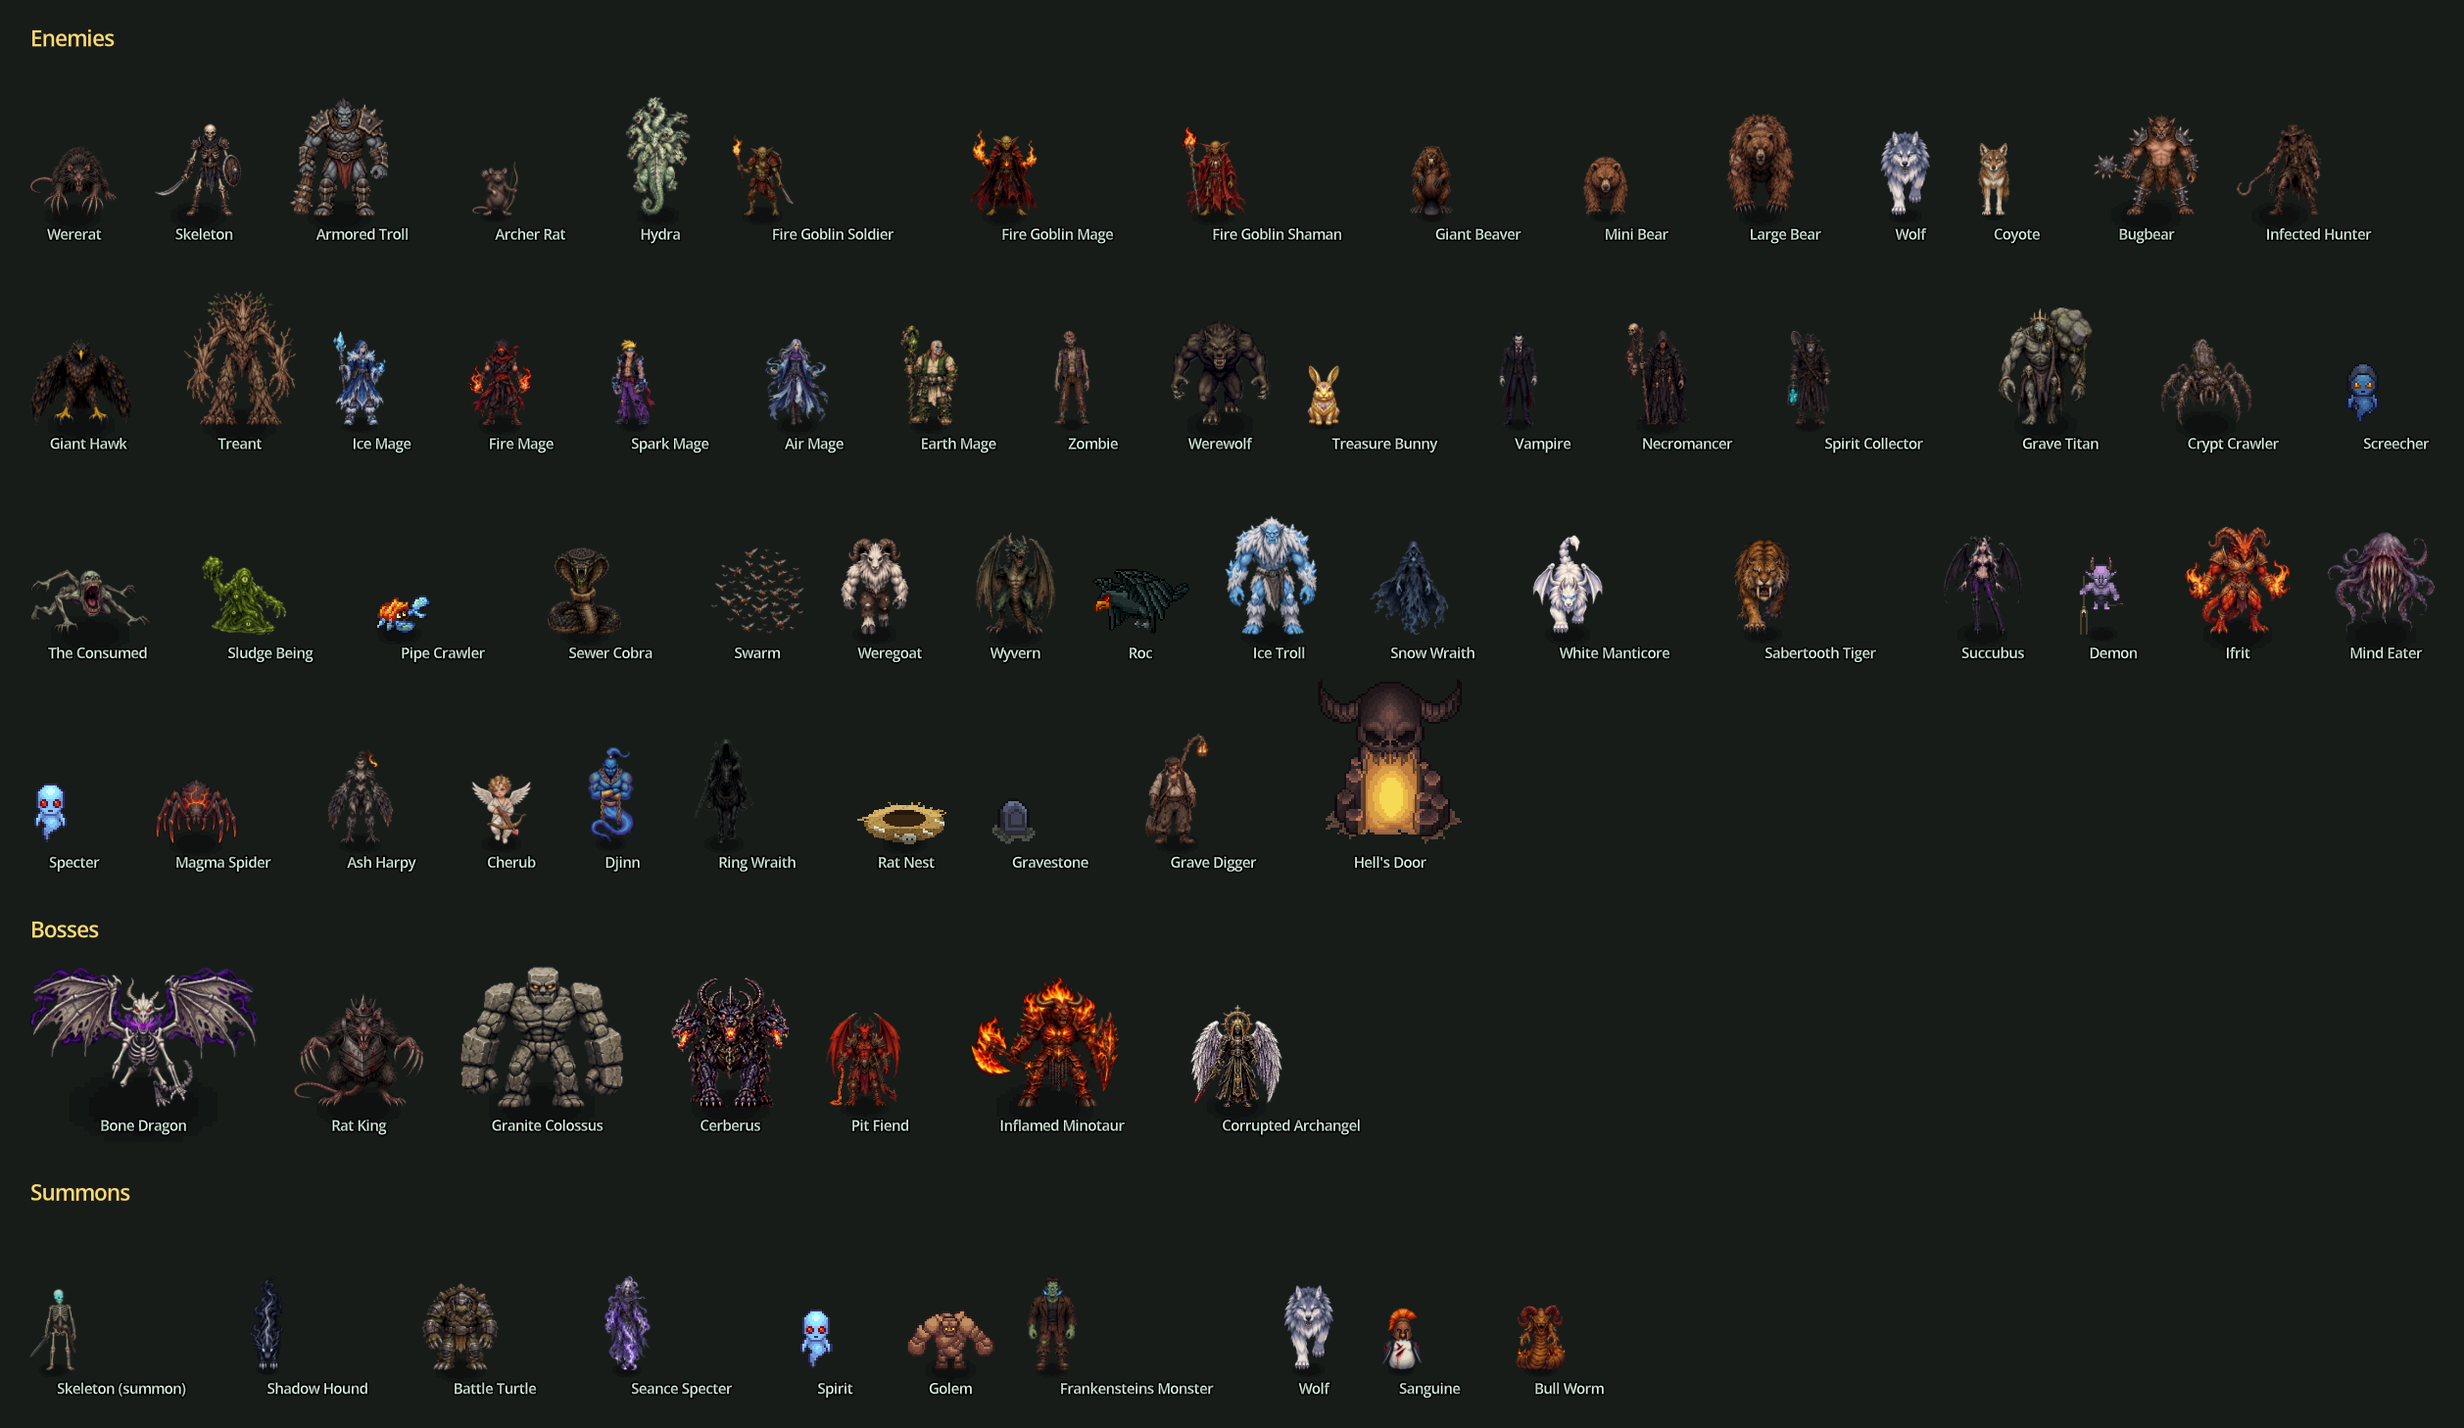
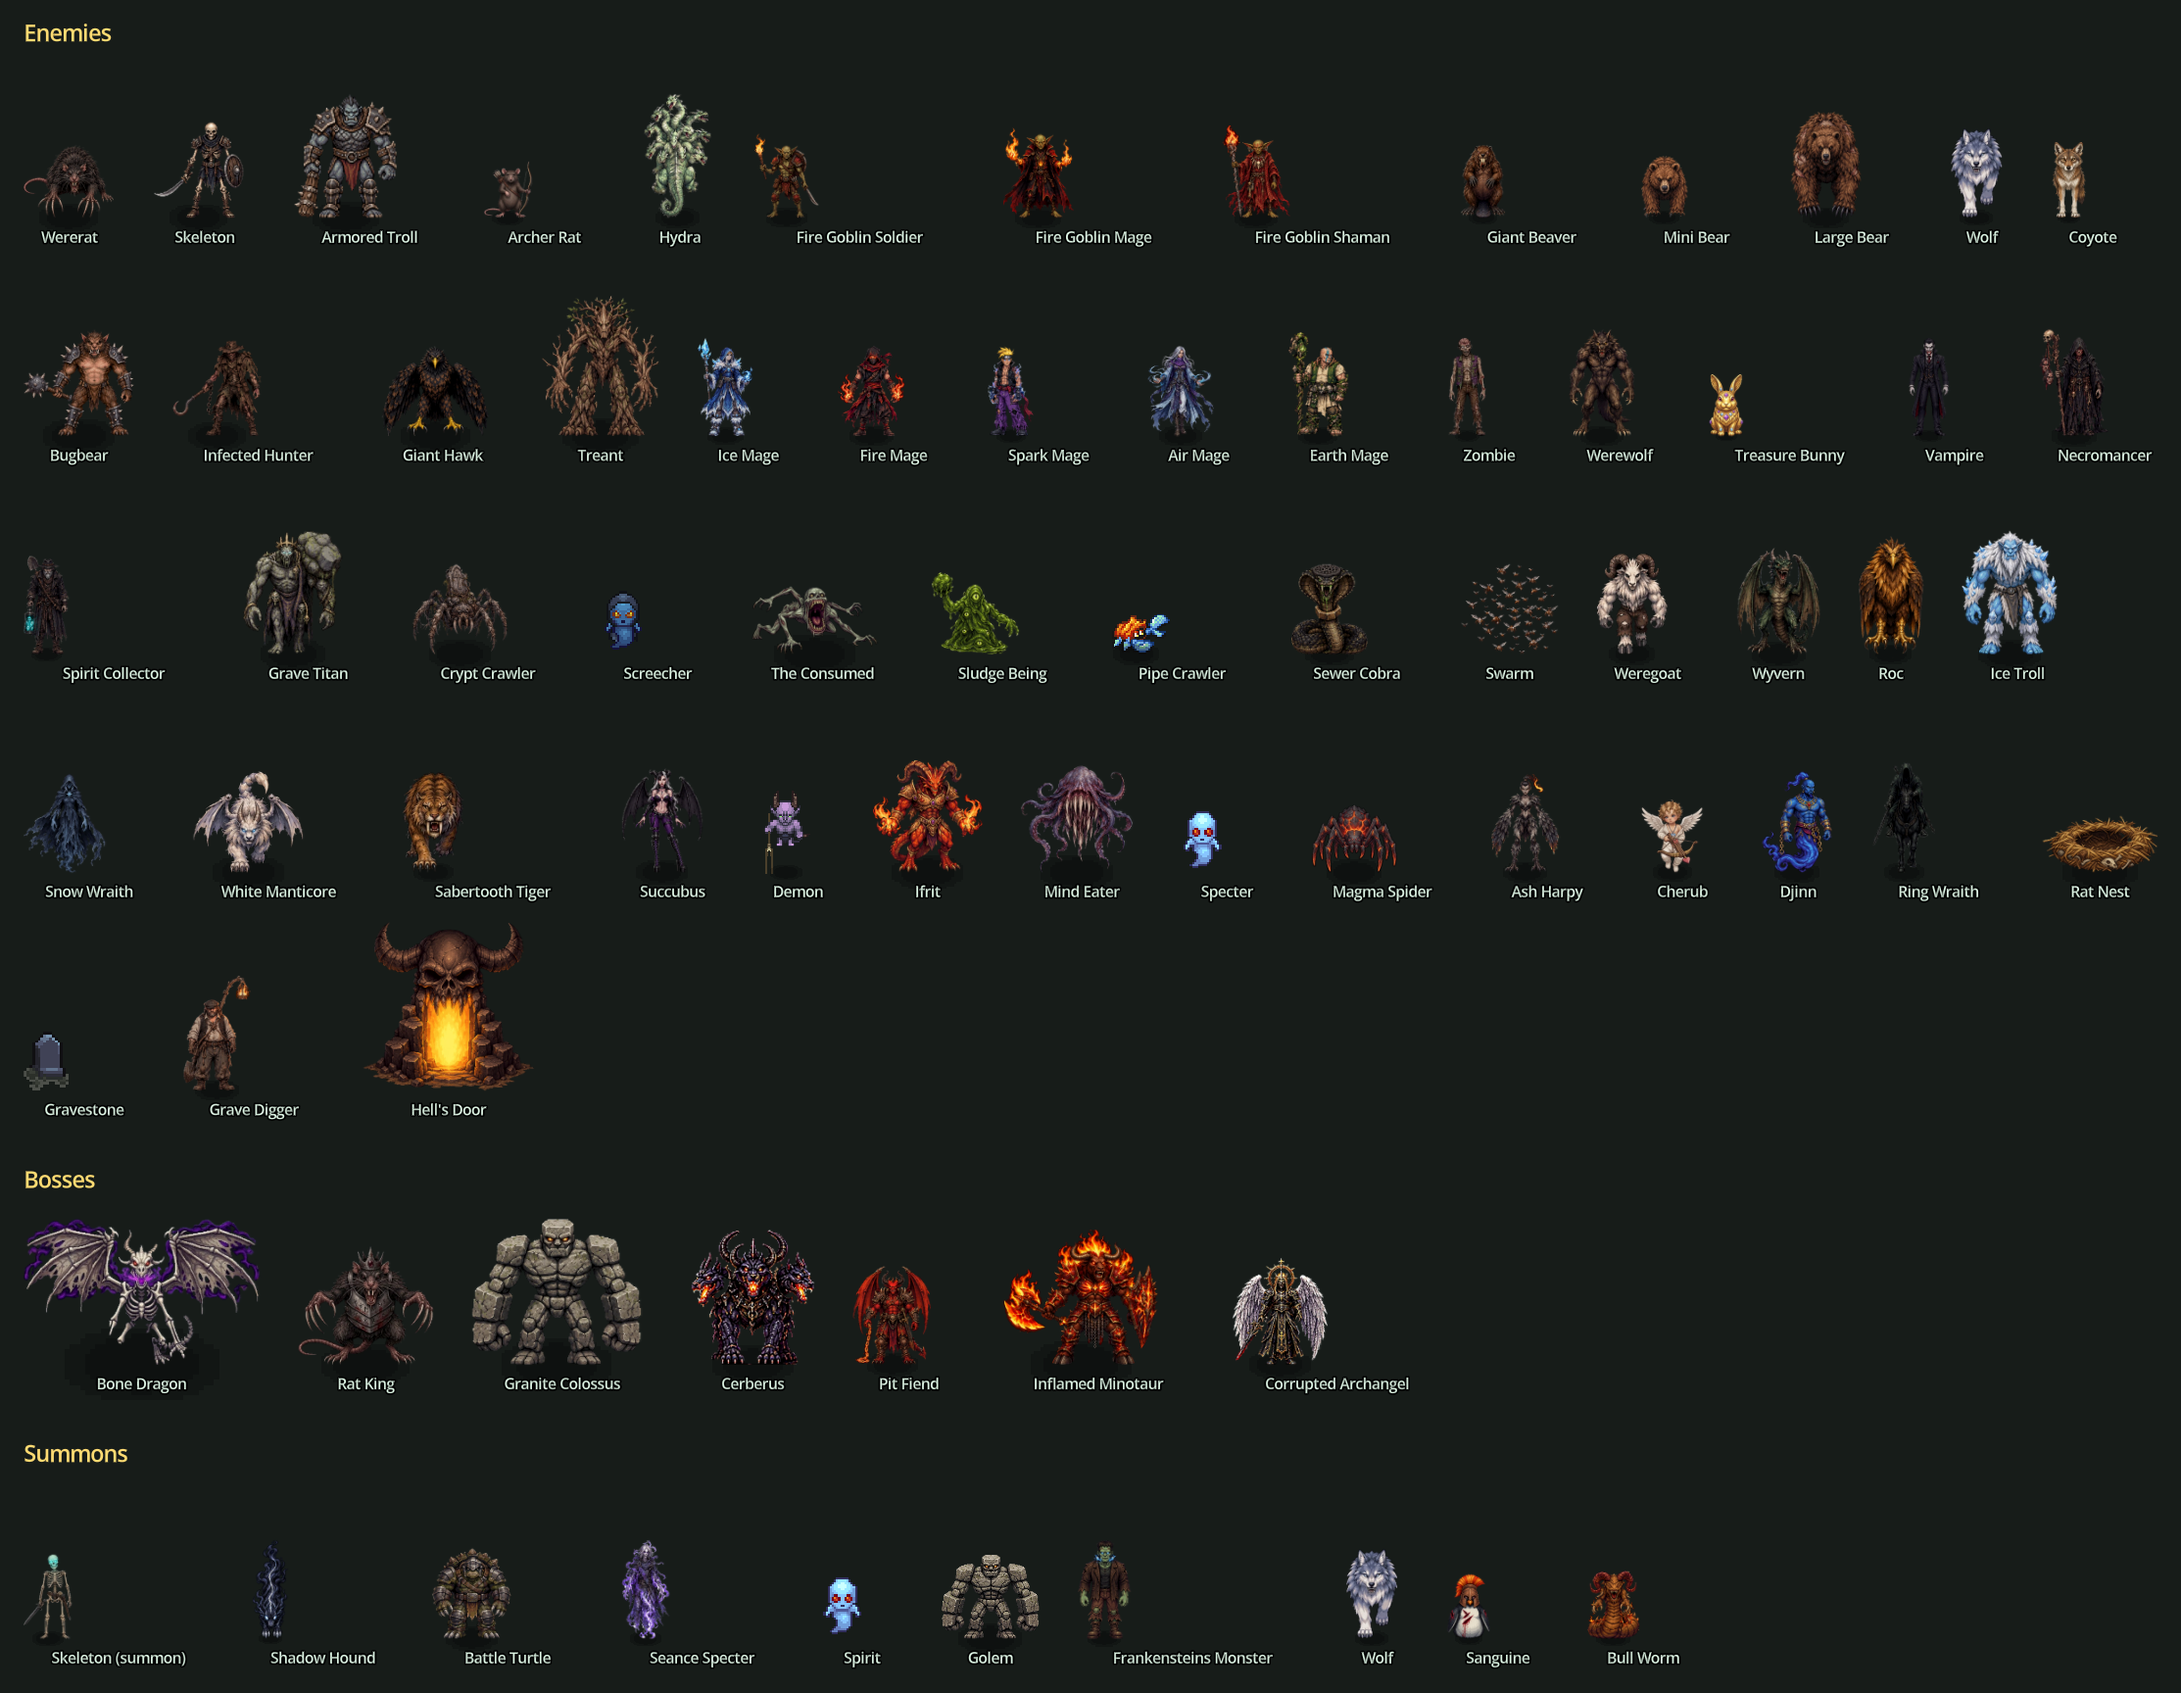
The summoned Golem wears the Granite Colossus board in miniature
A style pass over every monster and NPC: the designer's boards already
read as one style, so they are left as they are. The summoned Golem was
the one pack figure with a drawn match - it was the Colossus's smaller
twin on the golem pack - so it is now cut from the Colossus board and
mattes at 1.5 tiles (a board entry can borrow another's mattes).

Claude-Session: https://claude.ai/code/session_012Y7A5C94YdKvjr5EFVon5m

diff --git a/tools/cut_pose_boards.py b/tools/cut_pose_boards.py
@@ -1181,6 +1181,12 @@ BOARDS = {
     },
 }
 
+# The Golem summon (Summon Golem): the Granite Colossus in miniature, cut from
+# the same board and its mattes at an ally's height (2026-10-28, so it matches
+# the designer's other art; it wore the golem pack's chibi Golem1 until then).
+BOARDS["summon_golem"] = {**BOARDS["granite_colossus"], "tiles": 1.5,
+                          "matte_name": "granite_colossus"}
+
 # Texels per tile the boards are cut at (designer, 2026-10-24: err on the
 # side of under-pixelating what we make): twice the world's 32, the heroes'
 # own fineness — one texel a screen pixel at the default zoom. Each board
@@ -1626,7 +1632,7 @@ def build(name: str, cfg: dict) -> None:
                 # "Walk:left" (its own matte, its own hints).
                 key = d if anim == "Idle" else "%s:%s" % (anim, d)
                 if key in cfg.get("matte", ()):
-                    bg_kind = "matte:" + os.path.join(MATTES, "%s_%s.png" % (name, key.replace(":", "_")))
+                    bg_kind = "matte:" + os.path.join(MATTES, "%s_%s.png" % (cfg.get("matte_name", name), key.replace(":", "_")))
                 fg_hints = cfg.get("matte_fg", {}).get(key, ()) if bg_kind.startswith("matte:") \
                     else cfg.get("fg", {}).get(key, ())
                 bg_hints = cfg.get("matte_bg", {}).get(key, ()) if bg_kind.startswith("matte:") \

diff --git a/docs/ASSET_PACKS.md b/docs/ASSET_PACKS.md
@@ -40,7 +40,7 @@ so a future pack that differs is a one-line fix.
 | `swordsman_lvl4_6/Swordsman_lvl4..6` | Armoured human swordsman, 3 gear tiers (lvl4 → lvl6 increasingly heavy) | Idle 12 · Walk 6 · Run 8 · Attack 7 · Walk_Attack 6 · Run_Attack 8 · Hurt 5 · Death 7 | Each attack has a `_nornal` (sic) variant without the yellow slash arc; `Parts/` splits body / head / sword / sword_back / red / shadow | Town guards & City defenders (`docs/STORY.md` §7, Sellsword raids); human bandit/knight enemies; possibly a paper-doll reference for Brad/Stephen combat outfits (ART_TODO #4). The slash-arc-free `_nornal` sheets + the arc-only difference are a route to the standalone slash VFX in ART_TODO #9 | **in game**: the generic Minion / Elite / Boss tiers (`brute_minion` = lvl4, `brute_elite` = lvl5 ×1.15, `brute_boss` = lvl6 ×1.3) |
 | `demons/Demon1..3` | **128×128 cells.** Horned purple imps with pitchforks / spears, 3 variants | Idle 4 · Walk 6 · Run 8 · Attack 10 · Hurt 4 · Death 13 | `Parts/*_Attack_fire` spell overlay, `*_Death_Death_effects`; `Shadow.png` | **Act 2 (Hell)** — Demon / Pit Fiend / Ifrit placeholders in ART_TODO #1; twice the cell size of the 64-px packs, so a natural "big enemy" tier | **in game**: `demon` = Demon1, `pit_fiend` = the designer's board since 2026-10-22 (Demon3 before) (the Ifrit moved to the chaos-monster icon pack, then to the designer's board on 2026-10-25; Demon2 is free). `Demon1_Attack_fire` is also the game's **fire-tile VFX** (`FireTileSprite`): the up-facing row's burning frames looped on every burning tile — the Shaman's wall, the Ifrit's breath, the Minotaur's wake, fire spots and Peshtigo's flames |
 | `vampires/Vampires3` | **64×64 cells.** Red-caped vampire lord on crimson spire legs (the pack's third variant; the pale dandy and the blue bat-lord are not shipped) | Idle 4 · Walk 6 · Run 8 · Attack 12 · Hurt 4 · Death 11 | `shadow_single`, `shadow_death` | Graveyard / barrow vampire | **staged: Vampires3 was the Vampire until the designer's board (2026-10-25) |
-| `golem/Golem1..3` | **128×128 cells.** Hulking rock / clay / crystal golems, 3 variants | Idle 4 · Walk 8 · Run 8 · Attack 9 · Hurt 4 · Death 8 | `shadow.png` 64×48 | Caves; Granite Colossus boss body (ART_TODO #3) and grave-titan / troll stand-ins (ART_TODO #1) | **in game**: `granite_colossus` = Golem1 (brown rock) ×1.6, `grave_titan` = Golem2 (bone-white crystal) ×1.35; the summoned Golem (`summon_golem`) = Golem1 ×1.0; Golem3 (blue armoured, fire core) is free |
+| `golem/Golem1..3` | **128×128 cells.** Hulking rock / clay / crystal golems, 3 variants | Idle 4 · Walk 8 · Run 8 · Attack 9 · Hurt 4 · Death 8 | `shadow.png` 64×48 | Caves; Granite Colossus boss body (ART_TODO #3) and grave-titan / troll stand-ins (ART_TODO #1) | **no longer in game** (2026-10-28): the Granite Colossus, the Grave Titan and the summoned Golem (`summon_golem`, the Colossus board in miniature) all wear the designer's boards; Golem1..3 are free |
 | `ent/Ent1..3` | **128×128 cells.** Walking tree-folk, 3 growth stages: Ent1 bare trunk, Ent2 sprouting, Ent3 full leafy canopy (added 2026-10-22) | Idle 4 · Walk 6 · Run 8 · Attack 7 · Hurt 4 · Death 12 | `Parts/` (body / leaves layers), `shadow.png` | Forests; the Treant elite | **staged: Ent3 was the Treant (2026-10-22 to 10-25, now the designer's board); all three are free |
 | `ghost/Ghost1..3` | Floating blue spirits, 3 variants. Attack is a two-phase dive: shrouds into a black shade, then bursts | Idle 4 · Walk 6 · Run 6 · Attack 12 · Hurt 4 · Death 9 | `Shadow_single`, `Shadow_death` | Wraith / harpy-type flyers (ART_TODO #1); Graveyard & Cemetery haunts; Act 3 (Heaven) lost souls | **in game**: `specter` = Ghost1 (also the summoned Spirit; Jeremy's Seance specter wore it violet-tinted as `summon_specter` until the designer's board, 2026-10-28), Ghost2 was the `snow_wraith` until the designer's board (2026-10-25; see *paintings*) and is the Screecher's again for now (2026-10-27), Ghost3 (the crowned wraith) is free again — the Ring Wraith wore it on 2026-10-23 until the designer's mounted wraith replaced it (see *paintings*) |
 | `gnolls/Gnoll1..3` | Hyena-men brawlers, 3 fur variants. **Gnoll1's Death sheet is misnamed `Gnoll_Death_*`** (no variant number) | Idle 4 · Walk 6 · Run 8 · Attack 10 · Hurt 4 · Death 6 | `Shadow_single`, `Shadow_death` | Greenwood / wilds beast-men; weregoat stand-in (ART_TODO #1); raid attackers on the City | **staged: `bugbear` was Gnoll2 (dark, armoured) and `weregoat` Gnoll3 (white-furred) until the designer's art (2026-10-25 and 10-22, see *paintings*); all three are free |
@@ -248,7 +248,7 @@ script cuts each one out of its background into the generated-monsters set.
 | `ifrit_board.jpg`, `bull_worm_board.jpg` (2026-10-25; the Ifrit — a horned fire demon in gilded armour, flames in its hands and at its tail — and the Alaskan Bull Worm, coiled and ram-horned, each in four panels on a brick wall and plank floor) | `assets/sprites/generated/sheets/{ifrit,bull_worm}/{Idle,Walk}.png` at 64 texels a tile: the Ifrit 2.0 tiles tall (replacing chaos-monster Icon47), the worm 1.2 (Worms Armageddon's summon, replacing its sphere meshes). The burrowed worm shows `assets/textures/props/worm_mound.png`, a heap cut from the pack's field-dirt tile by `tools/generate_scenery_props.py` (no pack draws a mound) | `tools/cut_pose_boards.py` (`grabcut`): the flat dark wall marked certain background (`sky_tol`), the Ifrit's shadowed pockets dropped (`drop_ice`), a hint line holding the worm's left horn tip in its back view |
 | `inflamed_minotaur_board.png`, `bone_dragon_board.jpg` (2026-10-25; the Inflamed Minotaur — flaming horns, axe and shield — in four panels on blue flagstones: its "west" and "east" panels are the front pose and its mirror, kept as labelled, and drawn ~15% larger than the bottom row; the Bone Dragon, purple death-mist on its wings, in four panels of a treasure-strewn crypt, both side panels facing left) | `assets/sprites/generated/sheets/{inflamed_minotaur,bone_dragon}/{Idle,Walk}.png` at 64 texels a tile: the minotaur 2.4 tiles tall (replacing the painting cut-out), the dragon 2.6 tall with a ~4-tile wingspan (replacing our generated still and `tools/generate_monsters.py`, both removed) | `tools/cut_pose_boards.py`: the minotaur by the `warm` cutter (no GrabCut: everything warm is it, plus the busy grey of its chainmail near the warm parts — its rings are the floor's own grey, but the floor is smooth), the side and back poses brought to the front's height (`match_height`), the board's dark frame line boxed off; the dragon by GrabCut seeded warm-vs-cool (`warm_seed`: bone, membrane and violet mist against the teal crypt, the crypt seen between ribs and under wings left open), the wings' mist regrown above the ground clouds (`violet_grow`), hint lines for its tail and spine from the front, the chest and skulls boxed off (`bg_hint`) |
 | `screecher_board.jpg` (2026-10-25; **the Consumed since 2026-10-27** — it was put on the Screecher by mistake (designer); the Screecher is back on the ghost pack's Ghost2 for now, and the crawler is cut to `generated/sheets/consumed/` — a gaunt, long-limbed undead crawler with a gaping fanged maw — in four panels of a bone-strewn cave; its "facing left" and "facing right" labels are swapped, so the poses are picked by what they show) | `assets/sprites/generated/sheets/screecher/{Idle,Walk}.png`, 1.2 tiles tall (~2.4 wide, arms spread) at 64 texels a tile; it replaced the Snow Wraith's tinted ghost and now casts a blob shadow (it crawls) | `tools/cut_pose_boards.py`: GrabCut seeded by brightness (`warm_seed` "pale": its lit, colourless skin surely it, the darkest of the cave probably not — the cave is the same greys) |
-| `granite_colossus_board.jpg` (2026-10-25; the Granite Colossus — a hulking stone golem with ember eyes — in four panels of a forge; its side labels are swapped, so poses are picked by what they show) | `assets/sprites/generated/sheets/granite_colossus/` and its smooth twin, 2.6 tiles tall (a boss); it replaced the golem pack's Golem1 (which the Granite summon still wears) | `tools/cut_pose_boards.py` from the model mattes (`tools/make_mattes.py`) |
+| `granite_colossus_board.jpg` (2026-10-25; the Granite Colossus — a hulking stone golem with ember eyes — in four panels of a forge; its side labels are swapped, so poses are picked by what they show) | `assets/sprites/generated/sheets/granite_colossus/` and its smooth twin, 2.6 tiles tall (a boss); it replaced the golem pack's Golem1. The summoned Golem is cut from the same board and mattes at 1.5 tiles (`sheets/summon_golem/`, 2026-10-28) | `tools/cut_pose_boards.py` from the model mattes (`tools/make_mattes.py`) |
 | `grave_titan_board.png` (2026-10-25; the Grave Titan — a moss-grown stone giant in a bone crown and tattered robes hauling a boulder — four poses that came already cut out, each over a painted floor shadow; its "NORTH" pose shows the face, so poses are picked by what they show) | `assets/sprites/generated/sheets/grave_titan/` and its smooth twin, 2.2 tiles tall (an elite); it replaced the golem pack's tinted Golem2 | `tools/cut_pose_boards.py` from the model mattes (`make_mattes.py` judges a cut-out board on white); the painted shadow under the feet dropped (`drop_shadow`) |
 | `armored_troll_board.png`, `ice_troll_board.png` (2026-10-25; the Armored Troll — grey-blue, spiked pauldrons, chain and a spiked club — and the Ice Troll — blue hide, white shag, ice crystals — each four unlabelled poses on black: front, back, facing left, facing right) | `assets/sprites/generated/sheets/{armored_troll,ice_troll}/` and their smooth twins, 2.2 tiles tall (elites); they replaced the mountain-monster pack's Orc and Yeti | `tools/cut_pose_boards.py` from the model mattes (`tools/make_mattes.py`) |
 | `large_bear_board.png` (2026-10-25; the Large Bear — a scarred brown grizzly — four poses on black, ~225 px each; its "NORTH" pose shows the face, so poses are picked by what they show) | `assets/sprites/generated/sheets/large_bear/` and its smooth twin, 1.9 tiles tall (an elite); it replaced the mountain-monster Bear | `tools/cut_pose_boards.py` from the model mattes |
